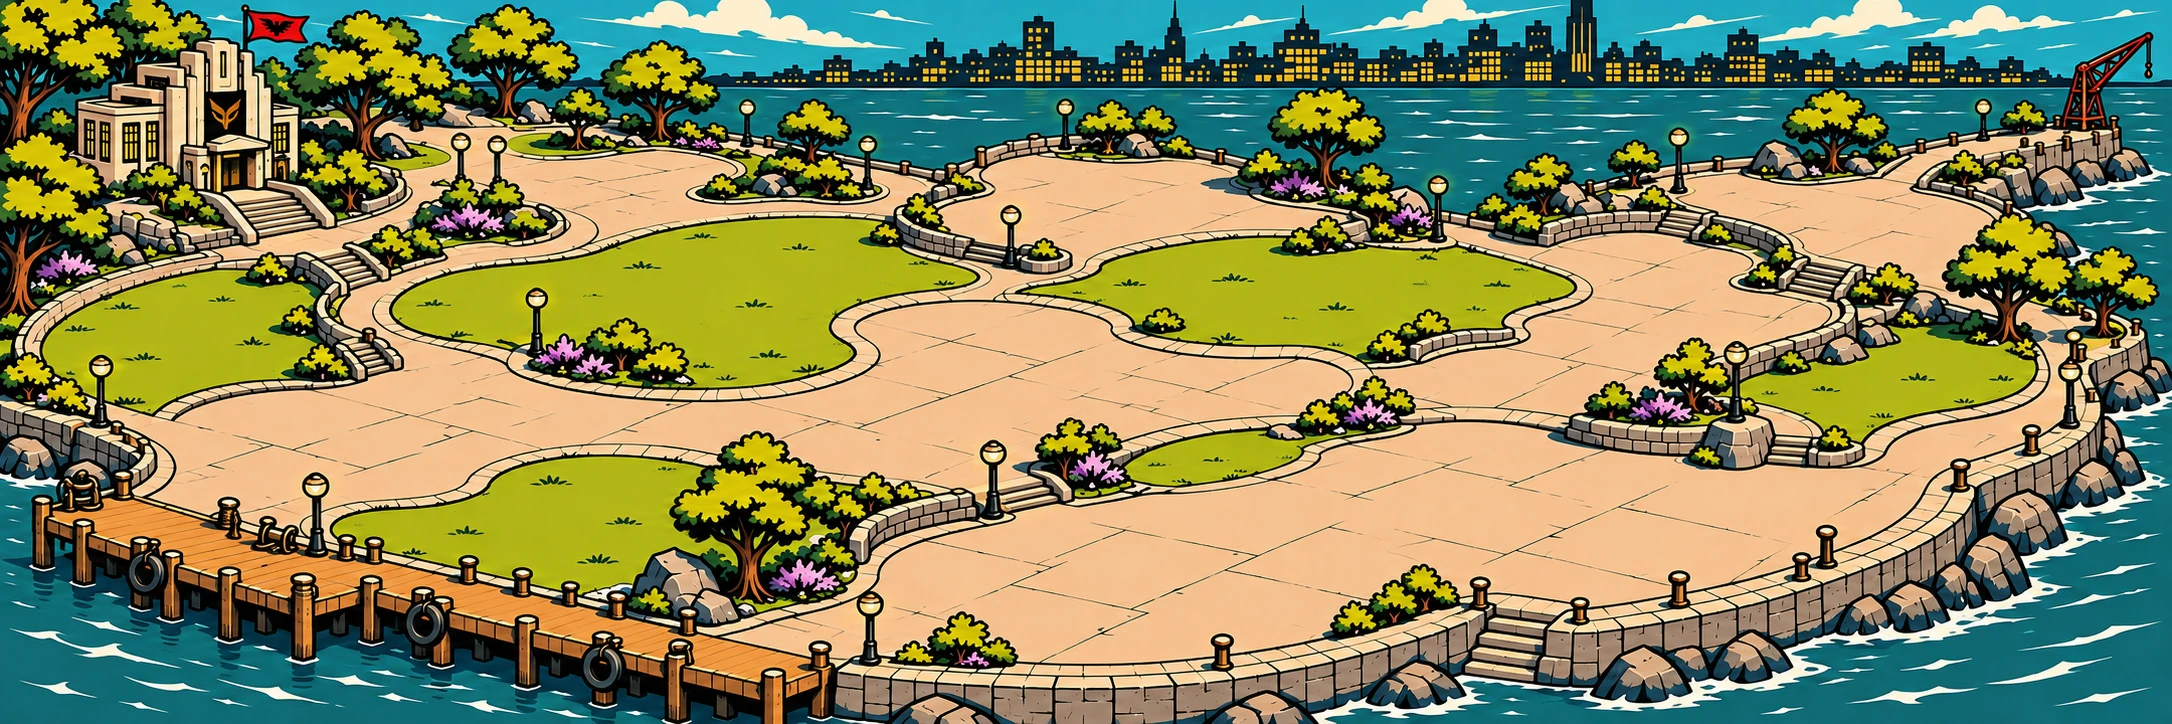
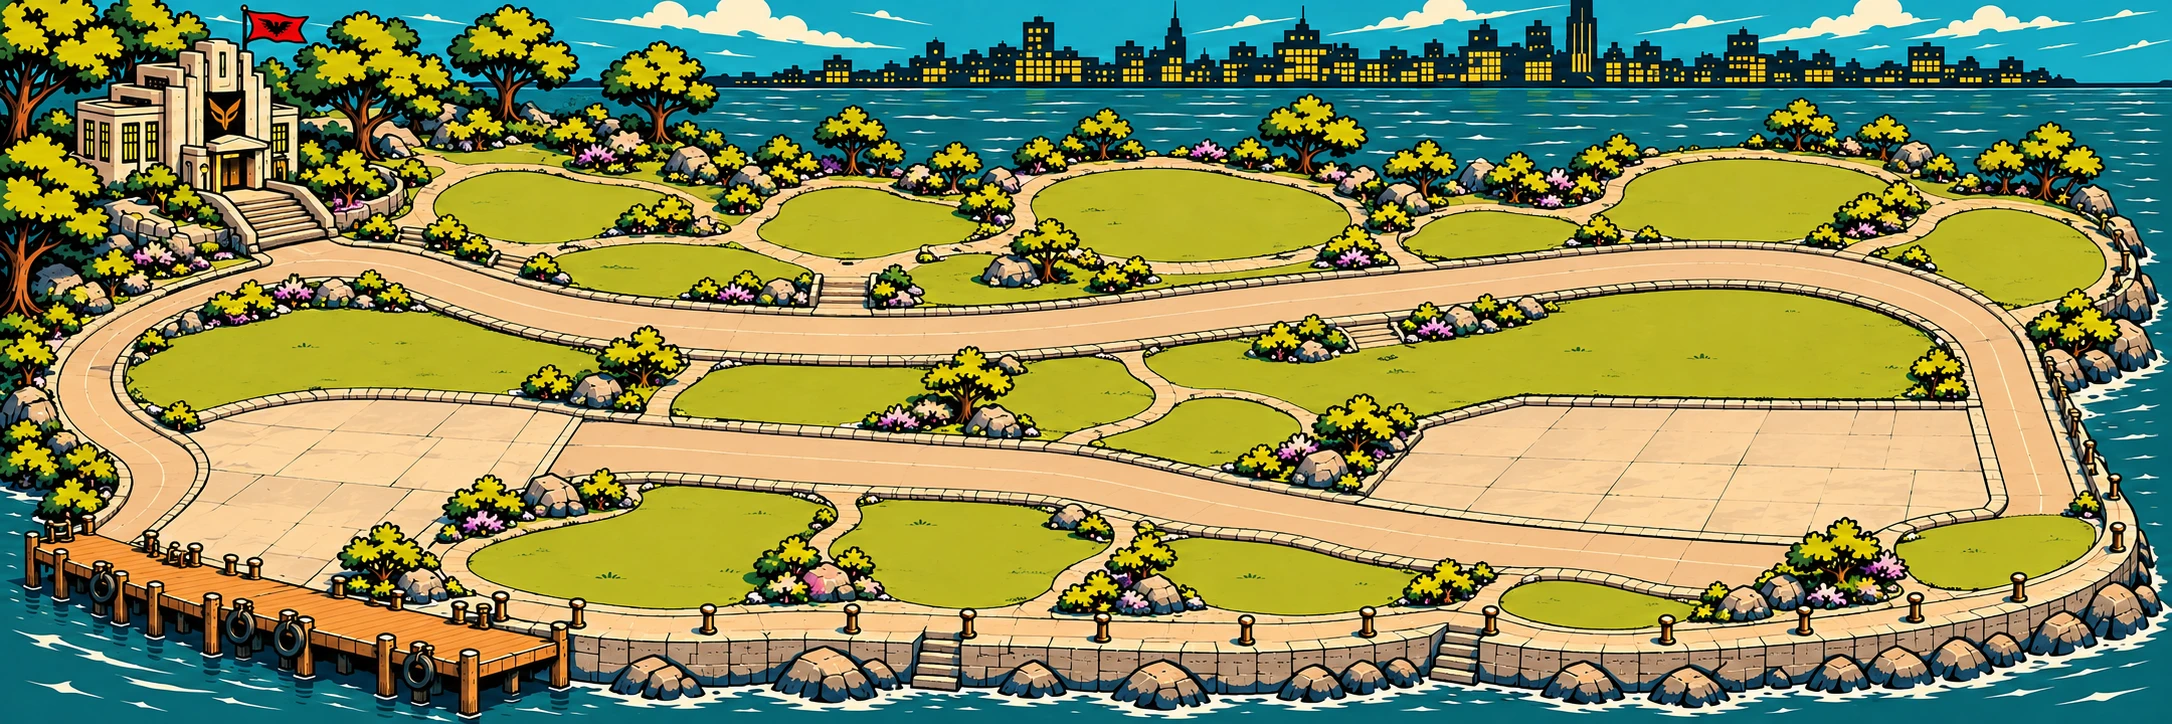
Calibrate HQ building scale and fit grounds to their footprints

diff --git a/src/hq/construction.js b/src/hq/construction.js
@@ -4,15 +4,31 @@ const HQ_FAC_ART={
   lab:[2,0],hangar:[2,1],reactor:[2,2],sanctum:[2,3],bunker:[2,4],antivenom:[2,5],
   magnet:[3,0],dojo:[3,1],bombsq:[3,2],optics:[3,3],jammer:[3,4]
 };
-/* Individually authored sites follow the curved waterfront paths; no row/column placement. [x, foot-y, width] */
+/* Shared visual world scale. Reference pixels measure an upright feature in each 512px cell.
+   Personnel doors use 2.1m; loading doors, equipment and the mast use their own plausible heights.
+   Art is illustrative: these are scale anchors, not surveyed building dimensions. */
+const HQ_WORLD_WIDTH_M=160;
+const HQ_SCALE={
+  skunk:[96,2.1,'personnel door'],medbay:[77,2.1,'personnel door'],workshop:[105,4.5,'loading door'],
+  comms:[445,22,'mast'],training:[140,4,'courtyard eaves'],press:[100,2.1,'personnel door'],
+  lab:[70,2.1,'personnel door'],hangar:[124,6,'hangar opening'],reactor:[96,2.2,'transformer cabinet'],
+  sanctum:[101,2.4,'chapel door'],bunker:[121,2.2,'bunker hatch'],antivenom:[100,2.1,'greenhouse door'],
+  magnet:[70,2.1,'control hut door'],dojo:[130,3.1,'veranda eaves'],bombsq:[187,4.2,'tall bay door'],
+  optics:[89,2.1,'annex door'],jammer:[100,1.6,'equipment cabinet']
+};
+function hqScaledWidth(k){const a=HQ_SCALE[k];return 512*a[1]/a[0]/HQ_WORLD_WIDTH_M*100}
+/* Site anchors [x%, foot-y%, scaled cell width%], authored around access routes and clearance. */
 const HQ_SITES={
-  skunk:[33,58,13],medbay:[61,52,13],workshop:[16,64,19],comms:[92,28,8.5],training:[35,87,14],press:[52,85,8.5],
-  lab:[46,37,11],hangar:[84,71,17],reactor:[73,54,8.5],sanctum:[65,30,10],bunker:[25,38,11],antivenom:[80,31,13],
-  magnet:[14,83,14],dojo:[43,65,12],bombsq:[67,86,10.5],optics:[94,50,7],jammer:[64,71,13]
+  skunk:[38,64,hqScaledWidth('skunk')],medbay:[69,43,hqScaledWidth('medbay')],workshop:[22,63,hqScaledWidth('workshop')],
+  comms:[91,88,hqScaledWidth('comms')],training:[34,84,hqScaledWidth('training')],press:[28,40,hqScaledWidth('press')],
+  lab:[56,36,hqScaledWidth('lab')],hangar:[85,65,hqScaledWidth('hangar')],reactor:[93,45,hqScaledWidth('reactor')],
+  sanctum:[42,39,hqScaledWidth('sanctum')],bunker:[12,43,hqScaledWidth('bunker')],antivenom:[81,30,hqScaledWidth('antivenom')],
+  magnet:[11,87,hqScaledWidth('magnet')],dojo:[47,88,hqScaledWidth('dojo')],bombsq:[63,88,hqScaledWidth('bombsq')],
+  optics:[74,91,hqScaledWidth('optics')],jammer:[56,67,hqScaledWidth('jammer')]
 };
 function hqFacilityArt(k,cls=''){
   const a=HQ_FAC_ART[k];if(!a)return '';
-  return `<span class="hq-fac-art ${cls}" aria-hidden="true" style="background-image:url('assets/headquarters/facilities-${a[0]}.webp?v=drawn-1');--ax:${a[1]%3*50}%;--ay:${Math.floor(a[1]/3)*100}%"></span>`;
+  return `<span class="hq-fac-art ${cls}" aria-hidden="true" style="background-image:url('assets/headquarters/facilities-${a[0]}.webp?v=world-scale-1');--ax:${a[1]%3*50}%;--ay:${Math.floor(a[1]/3)*100}%"></span>`;
 }
 function hqGrounds(selected){
   const keys=Object.keys(HQ_FAC_ART);

diff --git a/css/headquarters.css b/css/headquarters.css
@@ -1,10 +1,10 @@
-/* Harbor construction: generated cel art, stable plots, full-width scene below navigation. */
+/* Hand-inked harbor construction: shared building scale and an undistorted 3:1 site canvas. */
 #app .hq-grounds{margin:0;border:3px solid #142638;box-shadow:4px 4px 0 #142638;background:#faeac5;min-width:0;overflow:hidden}
 #app .hq-grounds-title{display:flex;align-items:center;justify-content:space-between;gap:8px;background:#ffd34f;color:#142638;padding:5px 12px;border-bottom:3px solid #142638}
 #app .hq-grounds-title h2{font:1.35rem Bangers,cursive;margin:0;letter-spacing:.04em}
 #app .hq-grounds-title>span{font-weight:800;font-size:.8rem}
-#app .hq-grounds-scroll{overflow-x:auto;height:clamp(210px,31vh,340px);scrollbar-color:#d4503e #ecd398;overscroll-behavior-x:contain}
-#app .hq-grounds-stage{position:relative;min-width:1000px;width:100%;height:100%;background:url('../assets/headquarters/grounds.webp?v=drawn-1') center/100% 100% no-repeat;isolation:isolate}
+#app .hq-grounds-scroll{overflow-x:auto;height:auto;scrollbar-color:#d4503e #ecd398;overscroll-behavior-x:contain}
+#app .hq-grounds-stage{position:relative;min-width:1000px;width:100%;height:auto;aspect-ratio:3/1;background:url('../assets/headquarters/grounds.webp?v=world-scale-1') center/100% 100% no-repeat;isolation:isolate}
 #app .hq-fac-art{display:block;aspect-ratio:1;background-size:300% 200%;background-position:var(--ax) var(--ay);background-repeat:no-repeat;pointer-events:none}
 #app .hq-plot{position:absolute;left:var(--px);top:var(--py);width:var(--pw);aspect-ratio:1;transform:translate(-50%,-88%);border:0;padding:0;background:none;box-shadow:none;cursor:pointer;color:#142638}
 #app .hq-plot.is-preview .hq-fac-art{opacity:.6;filter:sepia(1) saturate(4) drop-shadow(0 0 2px #ffb800)}

diff --git a/index.html b/index.html
@@ -38,7 +38,7 @@
 <script src="src/ui/tooltips.js"></script>
 <script src="src/ui/playbook.js"></script>
 <script src="src/hq/workshop.js"></script>
-<script src="src/hq/construction.js?v=drawn-1"></script>
+<script src="src/hq/construction.js?v=world-scale-1"></script>
 <script src="src/ui/cheats.js"></script>
 <script src="src/tutorial/script.js"></script>
 <script src="src/tutorial/tutorial.js"></script>
@@ -86,7 +86,7 @@
 <link rel="stylesheet" href="css/isometric.css">
 <link rel="stylesheet" href="css/heroic-ui.css?v=bright-comic-4">
 <script src="src/art/isometric.js"></script>
-<link rel="stylesheet" href="css/headquarters.css?v=drawn-1">
+<link rel="stylesheet" href="css/headquarters.css?v=world-scale-1">
 <script>
 if(!load())newCampaign();
 render();

diff --git a/docs/headquarters.md b/docs/headquarters.md
@@ -1,11 +1,19 @@
 # Harbor headquarters construction
 
-Open **Build HQ** beside Operations and Roster. The grounds occupy about one third of the viewport below the banners. Small screens pan the grounds horizontally; facility choices and the selected artwork stack below.
+Open **Build HQ** beside Operations and Roster. The grounds occupy the upper page panel below the banners, preserving the authored 3:1 panorama. Small screens pan the grounds horizontally; facility choices and the selected artwork stack below.
 
 All 17 existing FAC keys have generated ink-drawn sprites, mapped in `src/hq/construction.js`. `HQ_SITES` supplies individual positions and sizes along the organic campus backdrop. Facilities appear from the existing `S.facilities` save field; selecting an unbuilt facility previews its proposed location. Build costs, blueprints, and effects still come from FAC. The old operations page links here, including the beginner guide.
 
 The shared masthead uses the lighthouse BLACKHARBOR artwork from concept A; resource chips and campaign information remain live text. Combat keeps its compact header.
 
-Art direction: the approved workshop, L-shaped clinic, and slender mast concept sheet. Expressive variable-weight brush lines, economical structural detail, flat brick/ivory/teal/ochre colors, and one clearly bounded shadow tone. Believable working structures have distinct ground plans and silhouettes: sprawling low sheds, narrow towers, courtyards, hooked wings, service arrays, and utility yards. Grounds: an irregular waterfront peninsula, winding paths, retaining walls, greenery, and open clearings, with no regular grid. The approved architecture sheet is the visual reference for both the facilities and the grounds. Sprite positions and widths are authored individually, including moving the interference station inland. Generated atlas files retain transparency and are compressed to WebP. The final atlas contains five facility sprites and one empty cell.
+Art direction: the approved workshop, L-shaped clinic, and slender mast concept sheet. Expressive variable-weight brush lines, economical structural detail, flat brick/ivory/teal/ochre colors, and one clearly bounded shadow tone. Believable working structures have distinct ground plans and silhouettes: sprawling low sheds, narrow towers, courtyards, hooked wings, service arrays, and utility yards. Grounds: an irregular waterfront peninsula, winding paths, retaining walls, greenery, and open clearings, with no regular grid. The approved architecture sheet is the visual reference for both the facilities and the grounds. Site positions are authored individually; widths follow the shared architectural scale. The interference station remains inland. Generated atlas files retain transparency and are compressed to WebP. The final atlas contains five facility sprites and one empty cell.
 
 Validation: `node tests/headquarters.cjs`, `node tests/comic-ui.cjs`, `node tests/investigation-ui.cjs`, `node tests/story.cjs`; browser checks cover selecting, paying for construction, built sprites, all-facility visibility, reload persistence, and a 390px viewport.
+
+## Shared scale and authored site plan
+
+`HQ_SCALE` anchors each 512px art cell to an upright feature: ordinary doors are approximately 2.1m; workshop/loading openings and equipment use their own plausible heights. The 22m mast is scaled by its overall height. `hqScaledWidth()` converts all references into the same 160m visual frontage. These are illustrative calibration anchors, not surveyed engineering dimensions. `HQ_SITES` then places those scaled cells around the authored plan in `hq-scale-plan.svg`.
+
+The grounds canvas keeps a 3:1 aspect ratio so the background and sprites resize together. Narrow screens pan horizontally. The plan reserves loading courts, a hangar apron, medical footpaths, salvage access, a quiet observatory clearing, and an extended lower-right cape for the communications mast.
+
+The observatory contains a short, large-aperture reflecting telescope held in a fork/yoke mount on a permanent pier, replacing the portable tripod instrument. Observatory mount/pier reference: [ESO telescope structure](https://www.eso.org/sci/facilities/paranal/telescopes/ut.html).
